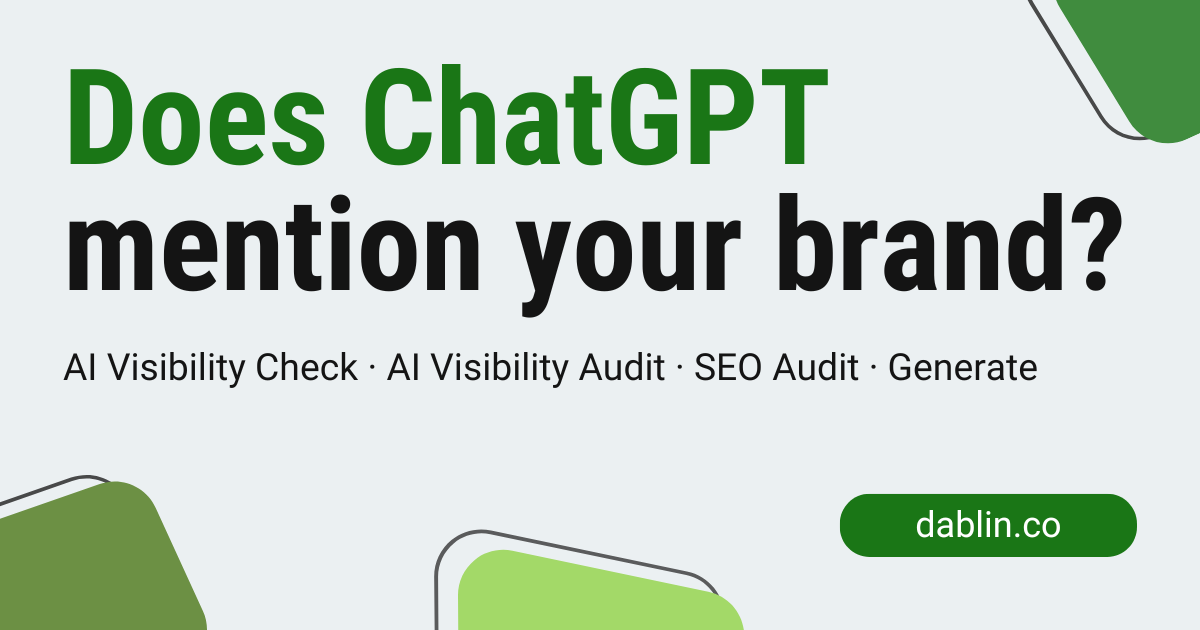
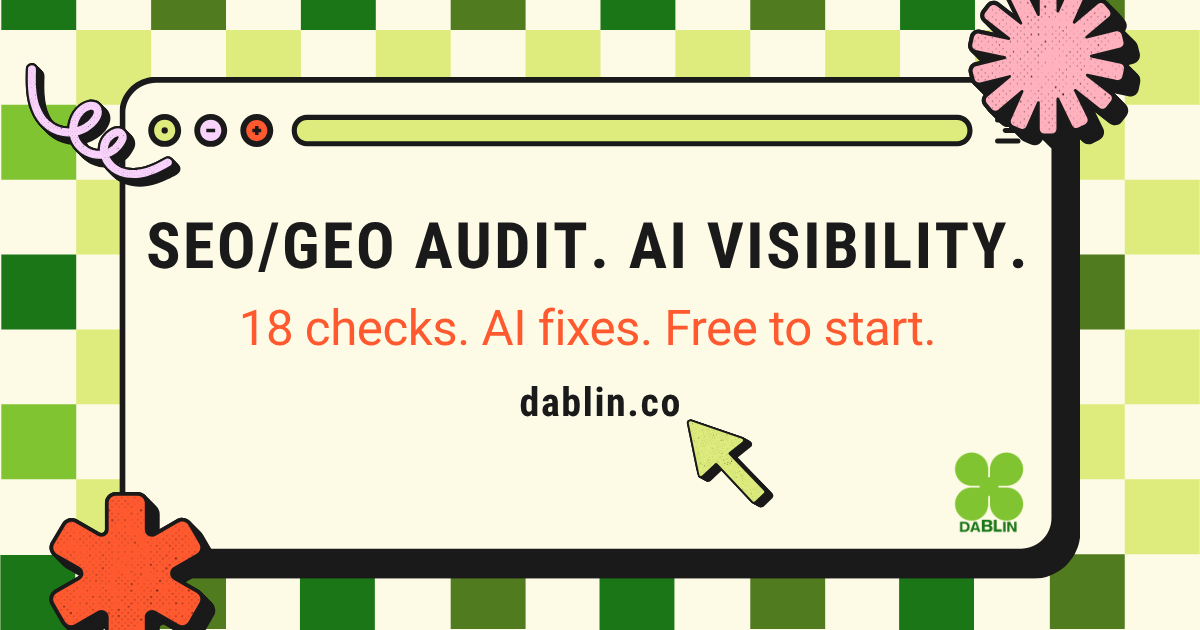
seo: new OG image + homepage title and meta rewritten to lead with SEO Audit and GEO

diff --git a/frontend/index.html b/frontend/index.html
@@ -4,24 +4,24 @@
     <meta charset="UTF-8" />
     <link rel="icon" type="image/png" href="/favicon.png" />
     <meta name="viewport" content="width=device-width, initial-scale=1.0" />
-    <title>Dablin — Does ChatGPT mention your brand?</title>
+    <title>Dablin — SEO Audit & GEO for brands and e-commerce</title>
 
     <!-- Canonical -->
     <link rel="canonical" href="https://dablin.co/" />
 
     <!-- Meta description (145 chars) -->
-    <meta name="description" content="Check if ChatGPT, Gemini, and Claude mention your brand. Fix what's hiding you from AI. Audit SEO. Write descriptions that rank. All in one tool." />
+    <meta name="description" content="Run an 18-check SEO audit on any page and get AI-generated fixes in 30 seconds. Check if Google, ChatGPT and Gemini can find your brand. Free to start." />
 
     <!-- Open Graph / WhatsApp / Twitter preview -->
-    <meta property="og:title" content="Dablin — Does ChatGPT mention your brand?" />
-    <meta property="og:description" content="Check if ChatGPT, Gemini, and Claude mention your brand. Fix what's hiding you from AI. Audit SEO. Write descriptions that rank. All in one tool." />
+    <meta property="og:title" content="Dablin — SEO Audit & GEO for brands and e-commerce" />
+    <meta property="og:description" content="Run an 18-check SEO audit on any page and get AI-generated fixes in 30 seconds. Check if Google, ChatGPT and Gemini can find your brand. Free to start." />
     <meta property="og:image" content="https://dablin.co/og-image.png" />
     <meta property="og:url" content="https://dablin.co" />
     <meta property="og:type" content="website" />
     <meta property="og:site_name" content="Dablin" />
     <meta name="twitter:card" content="summary_large_image" />
-    <meta name="twitter:title" content="Dablin — Does ChatGPT mention your brand?" />
-    <meta name="twitter:description" content="Check if ChatGPT, Gemini, and Claude mention your brand. Fix what's hiding you from AI. Audit SEO. Write descriptions that rank." />
+    <meta name="twitter:title" content="Dablin — SEO Audit & GEO for brands and e-commerce" />
+    <meta name="twitter:description" content="Run an 18-check SEO audit on any page and get AI-generated fixes in 30 seconds. Check if Google, ChatGPT and Gemini can find your brand." />
     <meta name="twitter:image" content="https://dablin.co/og-image.png" />
 
     <!-- Schema: SoftwareApplication -->
